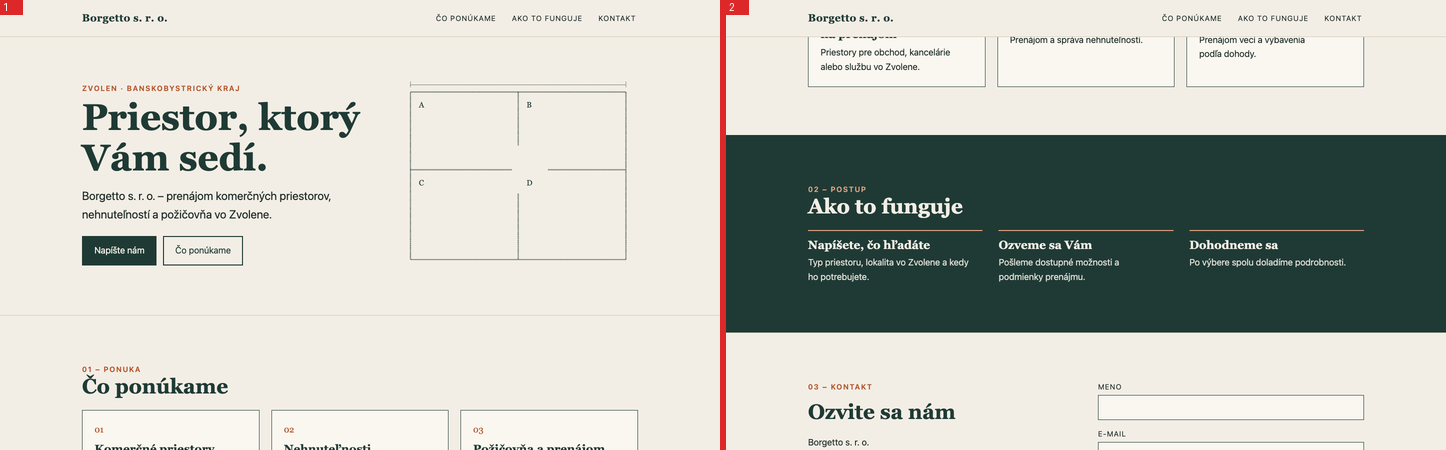
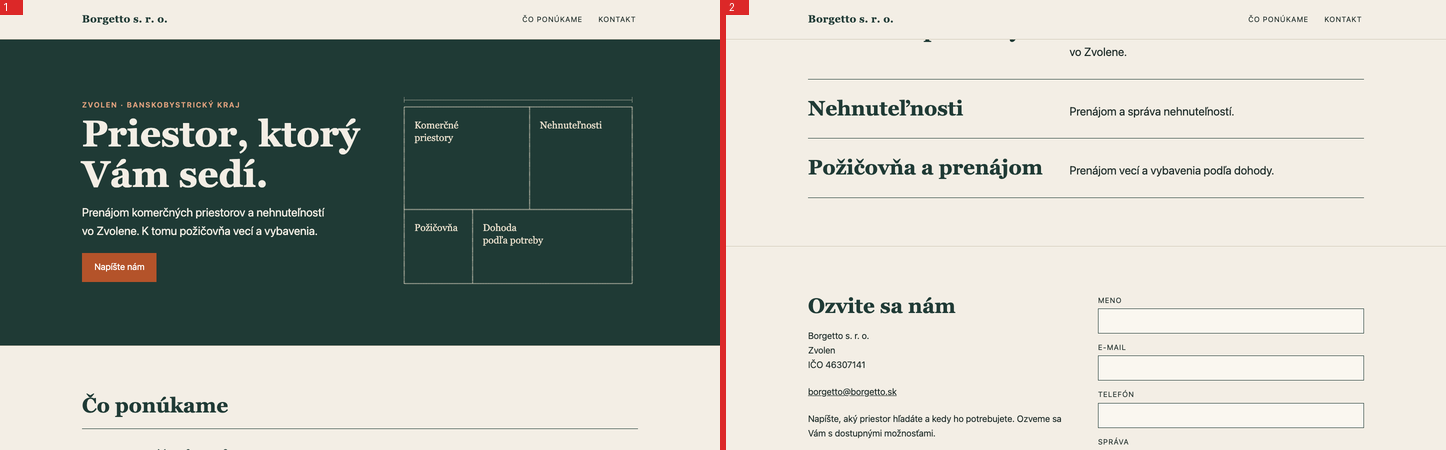
Aktualizace webu 2026-11-14 07:10

diff --git a/src/index.html b/src/index.html
@@ -10,27 +10,14 @@
       <p class="lead">Prenájom komerčných priestorov a nehnuteľností vo Zvolene. K tomu požičovňa vecí a vybavenia.</p>
       <p><a class="btn" href="#kontakt">Napíšte nám</a></p>
     </div>
-    <svg class="plan" viewBox="0 0 420 340" role="img" aria-label="Pôdorys s tromi časťami ponuky: komerčné priestory, nehnuteľnosti, požičovňa">
-      <g fill="none" stroke="currentColor" stroke-width="2" pathLength="1">
-        <path class="draw" d="M10 20H410V330H10Z"/>
-        <path class="draw" d="M230 20V200M10 200H410"/>
-        <path class="draw" d="M130 200V330"/>
-        <path class="draw thin" d="M10 8H410M10 3V13M410 3V13"/>
-      </g>
-      <g fill="currentColor" font-family="Georgia,serif" font-size="17">
-        <text x="28" y="58">Komerčné</text><text x="28" y="80">priestory</text>
-        <text x="248" y="58">Nehnuteľnosti</text>
-        <text x="28" y="238">Požičovňa</text>
-        <text x="148" y="238">Dohoda</text><text x="148" y="260">podľa potreby</text>
-      </g>
-    </svg>
+    <div class="hero-foto">{{ img('priestory.jpg','Ukážka: prázdny komerčný priestor s veľkými výkladmi',sizes='(max-width:820px) 100vw, 45vw') }}<p class="muted popis-foto">Ukážková fotka, nahradíme ju Vašimi priestormi.</p></div>
   </div>
 </section>
 <section class="sekce" id="sluzby">
   <div class="wrap">
     <h2>Čo ponúkame</h2>
     <ul role="list" class="karty">
-      {% for s in data.sluzby %}<li><h3>{{ s.nazev }}</h3><p>{{ s.popis }}</p></li>{% endfor %}
+      {% for s in data.sluzby %}<li>{{ img(s.foto, s.alt, sizes='(max-width:820px) 100vw, 30vw') }}<h3>{{ s.nazev }}</h3><p>{{ s.popis }}</p></li>{% endfor %}
     </ul>
   </div>
 </section>

diff --git a/static/css/style.css b/static/css/style.css
@@ -119,3 +119,8 @@ a[href^="mailto"]{display:inline-block;padding:.6rem 0}
 .hero .plan{color:#e9dfcc}.hero .btn{background:var(--warm);border-color:var(--warm);color:#fff}.hero .btn:hover{background:#e3a37f;border-color:#e3a37f;color:#14231f}
 .karty li{padding:2.2rem 0}.karty h3{font-size:var(--step-3)}.karty p{font-size:var(--step-1)}
 @media(max-width:820px){nav a{min-height:44px;display:inline-flex;align-items:center}.hlavicka .wrap{padding-top:.4rem;padding-bottom:.4rem}}
+
+/* kolo 4: ukázkové fotky */
+.hero-foto img{width:100%;aspect-ratio:4/3;object-fit:cover;border-radius:2px}
+.hero .popis-foto{color:#e9dfcc;font-size:.85rem;margin:.6rem 0 0}
+.karty li img{width:100%;aspect-ratio:3/2;object-fit:cover;margin-bottom:1rem}

diff --git a/_research/gen.py b/_research/gen.py
@@ -1,0 +1,25 @@
+import base64, json, re, subprocess, sys, time
+from pathlib import Path
+ACC="91c5bf467d30ea7e0c866ee7bcfd1e6f"
+OUT=Path(__file__).resolve().parent
+def token():
+    t=(Path.home()/"Library/Preferences/.wrangler/config/default.toml").read_text()
+    return re.search(r'oauth_token = "([^"]+)"',t).group(1)
+S=", photorealistic editorial photograph, natural daylight, no people, no text, no signs, no logos"
+J={
+"priestory":("Bright empty commercial retail space for rent, large shop-front windows, light concrete floor, white walls, spotlights on ceiling, clean and ready to move in, eye-level wide view"+S,1792,1024),
+"kancelaria":("Modern empty office space for rent in a small town building, light wooden floor, white walls, tall windows, a few ceiling lights, calm and tidy, wide view"+S,1536,1024),
+"poziconva":("Neatly organised rental storage room with shelves holding folding tables, stacked chairs, a ladder and plastic crates, light grey walls, tidy equipment rental warehouse"+S,1536,1024),
+}
+for n in (sys.argv[1:] or J):
+    p,w,h=J[n]; out=OUT/f"{n}.jpg"
+    if out.exists(): continue
+    for a in range(3):
+        r=subprocess.run(["curl","-s","-m","240","-X","POST",f"https://api.cloudflare.com/client/v4/accounts/{ACC}/ai/run/@cf/black-forest-labs/flux-2-dev","-H",f"Authorization: Bearer {token()}","-F",f"prompt={p}","-F",f"width={w}","-F",f"height={h}"],capture_output=True,text=True)
+        try:
+            d=json.loads(r.stdout)
+            if d.get("success") and d["result"].get("image"):
+                out.write_bytes(base64.b64decode(d["result"]["image"])); print("ok",n); break
+            print("err",n,d.get("errors"))
+        except Exception as e: print("err",n,r.stdout[:150])
+        time.sleep(10)
